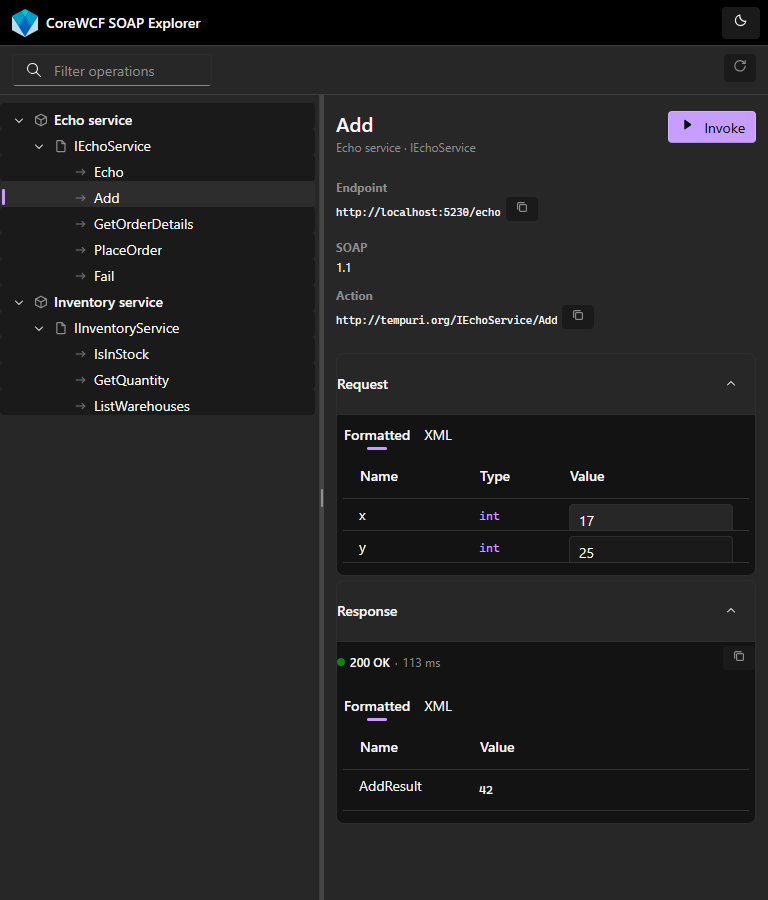
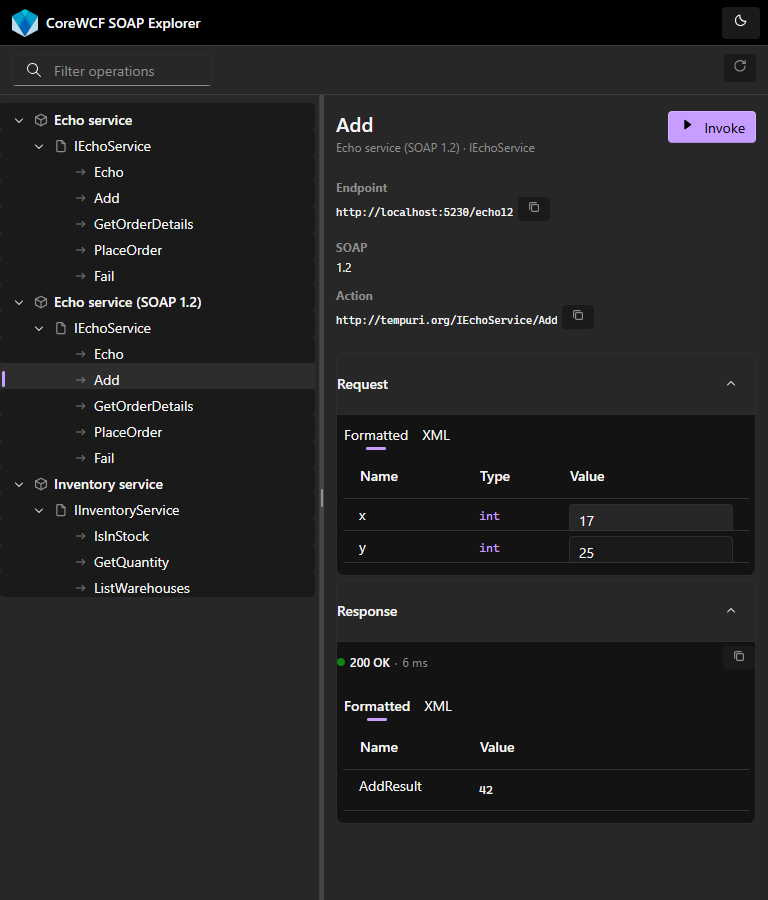
Add a SOAP 1.2 endpoint to the sample and cover it end to end
The explorer claimed SOAP 1.2 support, and the response parser was
rewritten onto MessageFault partly to get 1.2 faults right, but nothing
in the repo actually spoke 1.2 - the sample was BasicHttpBinding
throughout, so the whole path was asserted rather than exercised.

The sample now hosts IEchoService a second time over SOAP 1.2 at /echo12,
with a hand-composed binding: BasicHttpBinding is 1.1 only, and
WSHttpBinding would require WS-Addressing, which the explorer
deliberately does not send.

It is a separate service type rather than a second endpoint on
EchoService, which is the part worth remembering. Metadata is published
per service, not per endpoint: adding an endpoint to the existing service
put both bindings into one WSDL document reachable only at /echo, and
/echo12?singleWsdl returned 400 - invisible to any client. A distinct
service type gives the endpoint its own metadata address. Confirmed by
inspection: /echo now declares one soap:binding, /echo12 one
soap12:binding.

This immediately paid for itself. Driving the 1.2 endpoint shows the same
failure reported as "SOAP fault (Sender)", against "SOAP fault (Client)"
on 1.1, which is precisely the MessageFault behaviour that previously had
no runtime coverage.

The UI test fixture hosts the same pair, and two tests now cover 1.2: a
round trip that checks the reply really is a 1.2 envelope rather than a
1.1 one that happened to work, and a fault that checks the code is
[…]

diff --git a/src/CoreWCF.Aspire.Explorer/uitests/ExplorerUITests.cs b/src/CoreWCF.Aspire.Explorer/uitests/ExplorerUITests.cs
@@ -24,13 +24,21 @@ public sealed class ExplorerUITests(ExplorerFixture fixture)
             "[data-operation-id] .row-text",
             "els => els.map(e => Math.round(e.getBoundingClientRect().left))");
 
+    private const string Soap11Service = "Calculator service";
+
     /// <summary>
     /// Clicks an operation and waits for the detail pane to catch up. Selection round-trips over the
     /// Blazor circuit, so asserting on the pane before the title has changed races the render.
+    /// <para>
+    /// Targeted by the tree's own identity rather than by accessible name: the same contract is
+    /// hosted over both SOAP versions, so an operation name alone matches two rows.
+    /// </para>
     /// </summary>
-    private static async Task SelectOperationAsync(IPage page, string operationName)
+    private static async Task SelectOperationAsync(
+        IPage page, string operationName, string serviceName = Soap11Service)
     {
-        await page.GetByRole(AriaRole.Treeitem, new() { Name = $"Operation {operationName}" }).ClickAsync();
+        var id = $"{serviceName}|ICalculatorService|{operationName}";
+        await page.Locator($"[data-operation-id='{id}']").ClickAsync();
         await Assertions.Expect(page.Locator(".detail-title")).ToHaveTextAsync(operationName);
     }
 
@@ -56,15 +64,16 @@ public sealed class ExplorerUITests(ExplorerFixture fixture)
 
         // Services load up front. A lazily loaded node has no children, so fluent-tree-item draws no
         // chevron and there would be nothing to click to trigger the load.
-        await Assertions.Expect(page.Locator("[data-operation-id]")).ToHaveCountAsync(6);
+        // Four calculator operations over each SOAP version, plus two inventory ones.
+        await Assertions.Expect(page.Locator("[data-operation-id]")).ToHaveCountAsync(10);
 
         foreach (var operation in new[] { "Add", "Describe", "Fail", "PlaceOrder", "IsInStock", "GetQuantity" })
         {
-            await Assertions.Expect(page.GetByRole(AriaRole.Treeitem, new() { Name = $"Operation {operation}" }))
+            await Assertions.Expect(page.GetByRole(AriaRole.Treeitem, new() { Name = $"Operation {operation}" }).First)
                 .ToBeVisibleAsync();
         }
 
-        await Assertions.Expect(page.Locator(".toolbar-count")).ToHaveTextAsync("6 operations in 2 services");
+        await Assertions.Expect(page.Locator(".toolbar-count")).ToHaveTextAsync("10 operations in 3 services");
     }
 
     [Fact]
@@ -175,7 +184,7 @@ public sealed class ExplorerUITests(ExplorerFixture fixture)
         await Assertions.Expect(page.Locator(".toolbar-count")).ToHaveTextAsync("1 operation in 1 service");
 
         await page.GetByRole(AriaRole.Searchbox).FillAsync("");
-        await Assertions.Expect(page.Locator("[data-operation-id]")).ToHaveCountAsync(6);
+        await Assertions.Expect(page.Locator("[data-operation-id]")).ToHaveCountAsync(10);
     }
 
     [Fact]
@@ -199,6 +208,45 @@ public sealed class ExplorerUITests(ExplorerFixture fixture)
     }
 
     [Fact]
+    public async Task Operations_can_be_invoked_over_soap_12()
+    {
+        var page = await _fixture.NewPageAsync();
+
+        await SelectOperationAsync(page, "Add", ExplorerFixture.Soap12ServiceName);
+
+        // The version is read from the WSDL binding, not assumed.
+        await Assertions.Expect(page.Locator(".meta")).ToContainTextAsync("1.2");
+        await Assertions.Expect(page.Locator(".meta")).ToContainTextAsync("/calc12");
+
+        await SetParameterAsync(page, "x", "17");
+        await SetParameterAsync(page, "y", "25");
+        await page.Keyboard.PressAsync("Control+Enter");
+
+        await Assertions.Expect(page.Locator(".response-status")).ToContainTextAsync("200 OK");
+        await Assertions.Expect(page.Locator(".resp-grid").First).ToContainTextAsync("42");
+
+        // The reply really is a 1.2 envelope, not a 1.1 one that happened to work.
+        await page.GetByRole(AriaRole.Tab, new() { Name = "XML" }).Last.ClickAsync();
+        await Assertions.Expect(page.Locator(".response-xml"))
+            .ToContainTextAsync("http://www.w3.org/2003/05/soap-envelope");
+    }
+
+    [Fact]
+    public async Task Soap_12_faults_report_the_code_as_1_2_spells_it()
+    {
+        var page = await _fixture.NewPageAsync();
+
+        await SelectOperationAsync(page, "Fail", ExplorerFixture.Soap12ServiceName);
+        await SetParameterAsync(page, "reason", "disk full");
+        await page.Keyboard.PressAsync("Control+Enter");
+
+        // Same failure, different spelling: 1.1 says Client, 1.2 says Sender. Reading the fault with
+        // MessageFault rather than by hunting for element names is what makes this come out right.
+        await Assertions.Expect(page.Locator(".response-view")).ToContainTextAsync("SOAP fault (Sender)");
+        await Assertions.Expect(page.Locator(".response-view")).ToContainTextAsync("disk full");
+    }
+
+    [Fact]
     public async Task Soap_faults_are_surfaced_rather_than_shown_as_a_bare_500()
     {
         var page = await _fixture.NewPageAsync();
@@ -213,5 +261,8 @@ public sealed class ExplorerUITests(ExplorerFixture fixture)
         // actually said instead of just timing out.
         var response = await page.Locator(".response-view").TextContentAsync() ?? string.Empty;
         Assert.Contains("disk full", response);
+
+        // 1.1 spells the code Client; the 1.2 endpoint is covered separately.
+        Assert.Contains("SOAP fault (Client)", response);
     }
 }

diff --git a/src/CoreWCF.Aspire.Explorer/uitests/SoapServiceFixture.cs b/src/CoreWCF.Aspire.Explorer/uitests/SoapServiceFixture.cs
@@ -3,6 +3,7 @@
 
 using System.Linq;
 using System.Runtime.Serialization;
+using System.Text;
 using System.Threading.Tasks;
 using CoreWCF;
 using CoreWCF.Channels;
@@ -54,7 +55,7 @@ public interface IInventoryService
     int GetQuantity(string sku);
 }
 
-public sealed class CalculatorService : ICalculatorService
+public class CalculatorService : ICalculatorService
 {
     public int Add(int x, int y) => x + y;
 
@@ -63,6 +64,15 @@ public sealed class CalculatorService : ICalculatorService
     public string Fail(string reason) => throw new FaultException($"Failed on purpose: {reason}");
 
     public string PlaceOrder(OrderRequest request) => $"Ordered {request.Quantity} x {request.Sku}";
+}
+
+/// <summary>
+/// The same contract hosted again over SOAP 1.2. A distinct service type, because metadata is
+/// published per service: a second endpoint on <see cref="CalculatorService"/> would share one WSDL
+/// document reachable only at the first endpoint's address, so the explorer could never discover it.
+/// </summary>
+public sealed class Soap12CalculatorService : CalculatorService
+{
 }
 
 public sealed class InventoryService : IInventoryService
@@ -100,6 +110,17 @@ public sealed class SoapServiceFixture : IAsyncDisposable
             serviceBuilder.AddService<CalculatorService>();
             serviceBuilder.AddServiceEndpoint<CalculatorService, ICalculatorService>(
                 new BasicHttpBinding(BasicHttpSecurityMode.None), "/calc");
+
+            // BasicHttpBinding is SOAP 1.1 only, and WSHttpBinding would require WS-Addressing,
+            // which the explorer deliberately does not send. Compose 1.2 without addressing.
+            serviceBuilder.AddService<Soap12CalculatorService>();
+            serviceBuilder.AddServiceEndpoint<Soap12CalculatorService, ICalculatorService>(
+                new CustomBinding(
+                    new TextMessageEncodingBindingElement(
+                        MessageVersion.CreateVersion(EnvelopeVersion.Soap12, AddressingVersion.None),
+                        Encoding.UTF8),
+                    new HttpTransportBindingElement()),
+                "/calc12");
 
             serviceBuilder.AddService<InventoryService>();
             serviceBuilder.AddServiceEndpoint<InventoryService, IInventoryService>(

diff --git a/src/CoreWCF.Aspire.Hosting/samples/CoreWcfSampleService/Program.cs b/src/CoreWCF.Aspire.Hosting/samples/CoreWcfSampleService/Program.cs
@@ -1,6 +1,7 @@
 // Licensed to the .NET Foundation under one or more agreements.
 // The .NET Foundation licenses this file to you under the MIT license.
 
+using System.Text;
 using CoreWCF;
 using CoreWCF.Channels;
 using CoreWCF.Configuration;
@@ -21,6 +22,18 @@ var app = builder.Build();
     serviceBuilder.AddService<EchoService>();
     serviceBuilder.AddServiceEndpoint<EchoService, IEchoService>(
         new BasicHttpBinding(BasicHttpSecurityMode.None), "/echo");
+
+    // The same contract again over SOAP 1.2, so the sample covers both versions. BasicHttpBinding is
+    // 1.1 only, and WSHttpBinding would bring WS-Addressing with it, so the binding is composed by
+    // hand: SOAP 1.2 text encoding, no addressing.
+    serviceBuilder.AddService<Soap12EchoService>();
+    serviceBuilder.AddServiceEndpoint<Soap12EchoService, IEchoService>(
+        new CustomBinding(
+            new TextMessageEncodingBindingElement(
+                MessageVersion.CreateVersion(EnvelopeVersion.Soap12, AddressingVersion.None),
+                Encoding.UTF8),
+            new HttpTransportBindingElement()),
+        "/echo12");
 
     serviceBuilder.AddService<InventoryService>();
     serviceBuilder.AddServiceEndpoint<InventoryService, IInventoryService>(

diff --git a/src/CoreWCF.Aspire.Hosting/samples/CoreWcfSample.AppHost/Program.cs b/src/CoreWCF.Aspire.Hosting/samples/CoreWcfSample.AppHost/Program.cs
@@ -3,8 +3,8 @@
 
 var builder = DistributedApplication.CreateBuilder(args);
 
-// The CoreWCF service to explore. It hosts two contracts with metadata (WSDL) enabled:
-// IEchoService at /echo and IInventoryService at /inventory.
+// The CoreWCF service to explore. It hosts two contracts with metadata (WSDL) enabled: IEchoService
+// at /echo and /echo12 (SOAP 1.1 and 1.2 respectively) and IInventoryService at /inventory.
 var echoService = builder.AddProject<Projects.CoreWcfSampleService>("echo-service");
 
 // The SOAP explorer, run here as a project (no container image needed for local development), wired to
@@ -13,6 +13,7 @@ var echoService = builder.AddProject<Projects.CoreWcfSampleService>("echo-servic
 // Registering both endpoints shows several services side by side in the explorer's tree.
 builder.AddProject<Projects.CoreWCF_Aspire_Explorer>("wcf-explorer")
     .WithCoreWcfService(echoService, metadataPath: "/echo", name: "Echo service")
+    .WithCoreWcfService(echoService, metadataPath: "/echo12", name: "Echo service (SOAP 1.2)")
     .WithCoreWcfService(echoService, metadataPath: "/inventory", name: "Inventory service");
 
 builder.Build().Run();

diff --git a/src/CoreWCF.Aspire.Explorer/uitests/ExplorerFixture.cs b/src/CoreWCF.Aspire.Explorer/uitests/ExplorerFixture.cs
@@ -22,6 +22,9 @@ namespace CoreWCF.Aspire.Explorer.UITests;
 /// </summary>
 public sealed class ExplorerFixture : IAsyncLifetime
 {
+    /// <summary>Name of the SOAP 1.2 service in the tree, shared with the tests that select from it.</summary>
+    public const string Soap12ServiceName = "Calculator service (SOAP 1.2)";
+
     private readonly SoapServiceFixture _soapService = new();
 
     private Process? _explorer;
@@ -129,7 +132,8 @@ public sealed class ExplorerFixture : IAsyncLifetime
         // serves its stylesheets in any environment; leaving this at the default means these tests
         // would notice if that ever regressed and the UI came up unstyled.
         AddService(startInfo, 0, "Calculator service", soapBaseAddress, "/calc");
-        AddService(startInfo, 1, "Inventory service", soapBaseAddress, "/inventory");
+        AddService(startInfo, 1, Soap12ServiceName, soapBaseAddress, "/calc12");
+        AddService(startInfo, 2, "Inventory service", soapBaseAddress, "/inventory");
 
         var process = Process.Start(startInfo)
             ?? throw new InvalidOperationException("Could not start the explorer process.");

diff --git a/src/CoreWCF.Aspire.Hosting/samples/CoreWcfSampleService/IEchoService.cs b/src/CoreWCF.Aspire.Hosting/samples/CoreWcfSampleService/IEchoService.cs
@@ -59,7 +59,7 @@ public sealed class OrderRequest
     public string? Customer { get; set; }
 }
 
-public sealed class EchoService : IEchoService
+public class EchoService : IEchoService
 {
     public string Echo(string text) => $"You said: {text}";
 
@@ -78,4 +78,18 @@ public sealed class EchoService : IEchoService
 
     public string Fail(string reason) =>
         throw new FaultException($"The operation failed on purpose: {reason}");
+}
+
+/// <summary>
+/// The same contract, hosted again over SOAP 1.2.
+/// <para>
+/// A distinct service type rather than a second endpoint on <see cref="EchoService"/>, because
+/// metadata is published per service: two endpoints on one service share a single WSDL document,
+/// which lists both bindings but is only reachable at the first endpoint's address. Giving the SOAP
+/// 1.2 endpoint its own service gives it its own <c>?singleWsdl</c>, which is what a client - the
+/// explorer included - needs in order to discover it.
+/// </para>
+/// </summary>
+public sealed class Soap12EchoService : EchoService
+{
 }

diff --git a/Documentation/AspireExplorer/readme.md b/Documentation/AspireExplorer/readme.md
@@ -21,6 +21,7 @@ var echoService = builder.AddProject<Projects.CoreWcfSampleService>("echo-servic
 
 builder.AddCoreWcfExplorer("wcf-explorer")
     .WithCoreWcfService(echoService, metadataPath: "/echo", name: "Echo service")
+    .WithCoreWcfService(echoService, metadataPath: "/echo12", name: "Echo service (SOAP 1.2)")
     .WithCoreWcfService(echoService, metadataPath: "/inventory", name: "Inventory service");
 ```
 
@@ -28,6 +29,11 @@ Run the AppHost, open the Aspire dashboard, and follow the `wcf-explorer` endpoi
 `WithCoreWcfService` call becomes one service in the tree. See
 [`src/CoreWCF.Aspire.Hosting/README.md`](../../src/CoreWCF.Aspire.Hosting/README.md) for the full
 hosting API and the supported Aspire versions.
+
+Each path must be a metadata address of its own. Metadata is published **per service**, not per
+endpoint: two endpoints on one service class share a single WSDL document that is only reachable at
+the first endpoint's address, so the second one is invisible to any client. The sample hosts its
+SOAP 1.2 endpoint on a separate service type for exactly this reason.
 
 ---
 
@@ -94,9 +100,9 @@ The two SOAP versions spell a fault entirely differently — `faultcode`/`faults
 `Code`/`Reason` in 1.2 — so the explorer reads them with WCF's own `MessageFault` rather than
 guessing at element names. The code is reported as the version in play actually names it, so the
 same failure reads `SOAP fault (Client)` against a 1.1 endpoint and `SOAP fault (Sender)` against
-a 1.2 one:
+a 1.2 one. The sample exposes the same contract over both, so this is easy to see side by side:
 
-![A SOAP fault, with the reason and code surfaced above the raw envelope](images/response-fault.png)
+![A fault from the SOAP 1.2 endpoint, reported as "SOAP fault (Sender)" above the raw 1.2 envelope](images/response-fault.png)
 
 ### Themes
 
